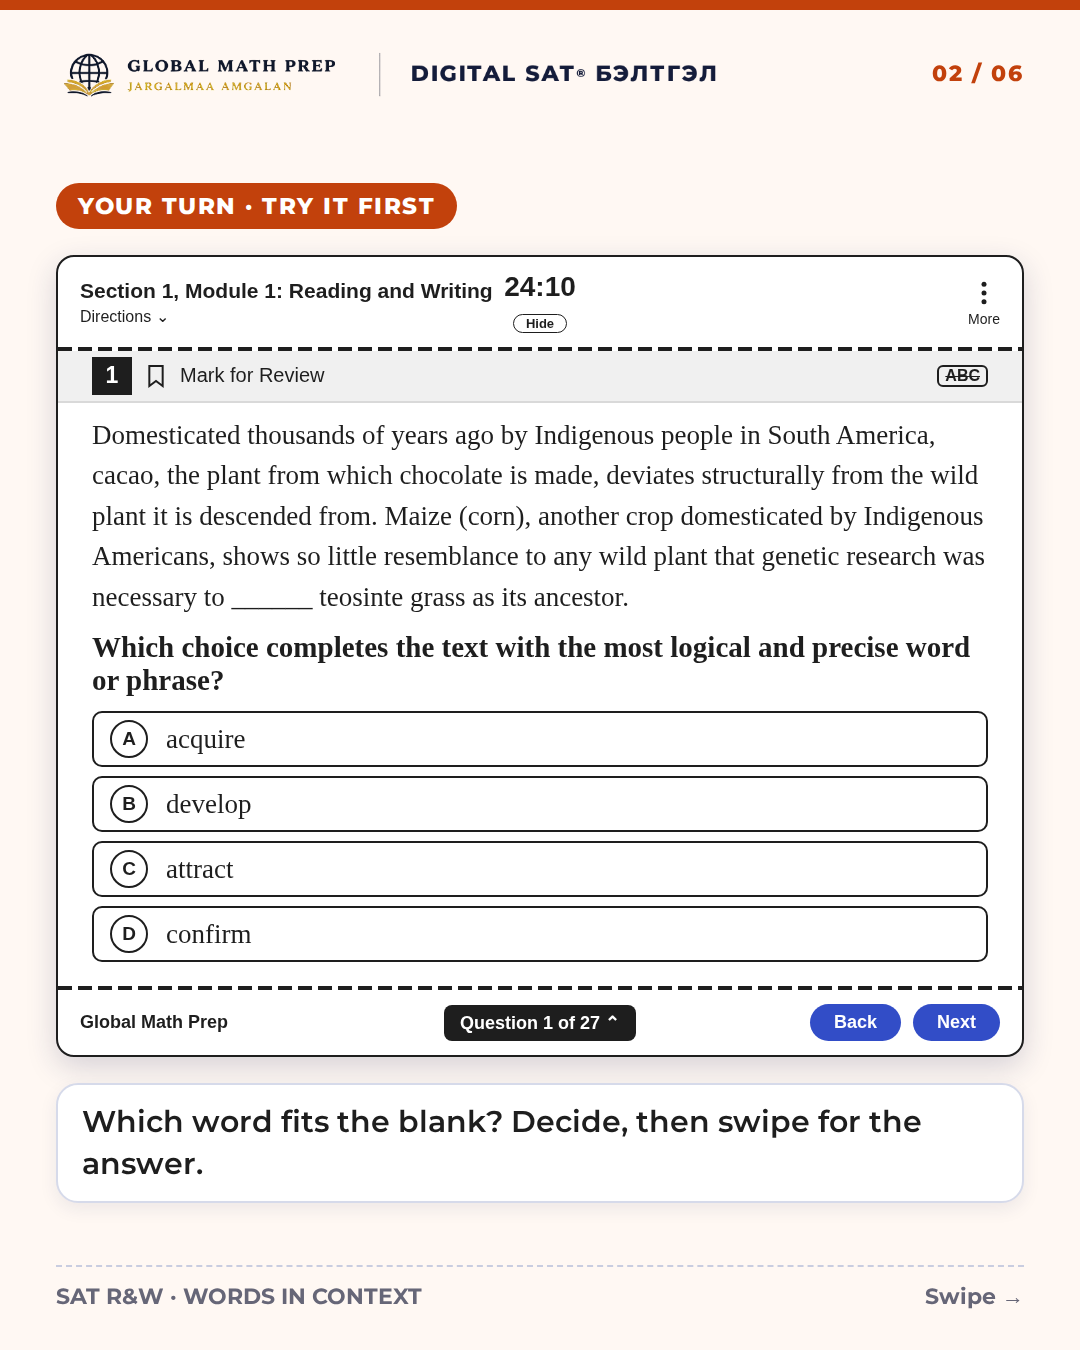
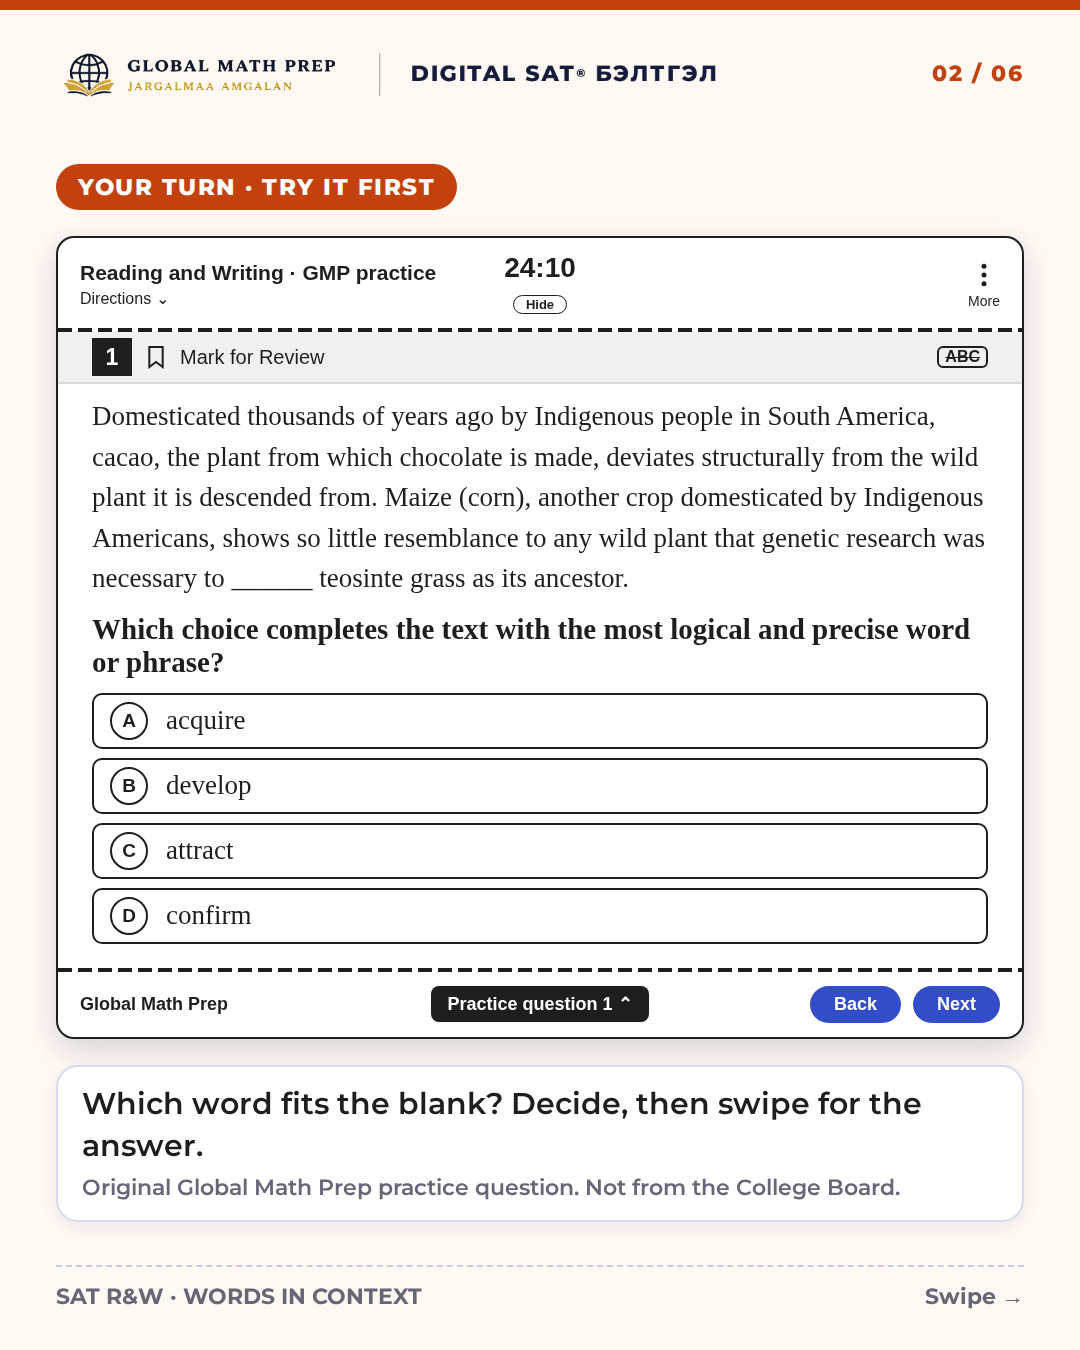
Cacao-Maize EN: apply audit fixes (PNG; MP4 to be re-rendered)
Claude-Session: https://claude.ai/code/session_01FLPzALAJUoveurDTsvCi1K

Changed region(s): [[0.0306, 0.1244, 0.9472, 0.9022]]

diff --git a/tools/v2/gen36.py b/tools/v2/gen36.py
@@ -18,10 +18,10 @@ EXTRA = """
 .vc.tp{border:3px solid #c62828}
 .vc .top2{display:flex;align-items:baseline;gap:14px;flex-wrap:wrap}
 .vc .wd{font-family:S,serif;font-size:40px;font-weight:700;color:#c62828}
-.vc .pr{font-size:24px;font-weight:700;color:#667}
+.vc .pr{font-size:27px;font-weight:700;color:#667}
 .vc .tg{font-size:20px;font-weight:800;letter-spacing:1px;background:#c62828;color:#fff;border-radius:20px;padding:3px 14px}
 .vc .why{font-size:31px;font-weight:600;color:#223;line-height:1.35;margin-top:4px}
-.vc .ex{font-family:S,serif;font-style:italic;font-size:29px;color:#556;margin-top:4px}
+.vc .ex{font-family:S,serif;font-style:italic;font-size:30px;color:#556;margin-top:4px}
 .trio{display:flex;gap:12px}
 .trio span{flex:1;text-align:center;background:#fff;border:2.5px solid @AC@;border-radius:18px;padding:12px 6px;font-family:S,serif;font-size:34px;font-weight:700;color:@AC@}
 .trio span.on{background:@AC@;color:#fff}
@@ -44,12 +44,12 @@ PASS = f'<span style="font-size:27px;line-height:1.5;display:block">{S1} {S2}</s
 
 # 1 cover
 cov = f"""<div style="display:flex;justify-content:space-between;align-items:center"><div class="pill">DOMAIN · CRAFT AND STRUCTURE</div>{E('1f331',110,'fl')}</div>
-<div style="align-self:flex-start;display:flex;align-items:center;gap:20px;background:#1e1e1e;color:#fff;border-radius:26px;padding:14px 34px 14px 30px"><span style="font-family:IN,M,sans-serif;font-weight:900;font-size:110px;letter-spacing:-3px;line-height:1">SAT<sup style="font-size:36px;vertical-align:top;position:relative;top:14px">&reg;</sup></span><span style="font-size:27px;font-weight:800;line-height:1.3;border-left:3px solid {AC};padding-left:20px">Reading &amp; Writing<br>practice question</span></div>
+<div style="font-family:IN,M,sans-serif;font-weight:900;font-size:58px;letter-spacing:-1px;color:#1e1e1e"><span style="color:{AC}">SAT</span>&reg; Reading &amp; Writing</div>
 <div class="h" style="font-size:96px"><span class="blue">Corn</span><br>looks nothing like<br>its ancestor</div>
 <div class="lead">So how did scientists find out who its ancestor was? One SAT word answers it.</div><div class="chips"><span>SKILL · Words in Context</span><span>4 choices</span><span>3 clues</span></div><div class="swipe">Swipe →</div>"""
 
-p2 = f"""<div class="pill">YOUR TURN · TRY IT FIRST</div>{frame(1, PASS, CH, prompt=PR)}
-<div class="card big" style="padding:16px 24px">Which word fits the blank? Decide, then swipe for the answer.</div>"""
+p2 = f"""<div class="pill">YOUR TURN · TRY IT FIRST</div>{frame(1, PASS, CH, prompt=PR).replace("Section 1, Module 1: Reading and Writing","Reading and Writing · GMP practice").replace("Question 1 of 27","Practice question 1")}
+<div class="card big" style="padding:16px 24px">Which word fits the blank? Decide, then swipe for the answer.<div style="font-size:22px;font-weight:600;color:#667;margin-top:6px">Original Global Math Prep practice question. Not from the College Board.</div></div>"""
 
 S2h = ('Maize (corn), another crop domesticated by Indigenous Americans, shows <span class="hk">so little resemblance</span> to any wild plant that '
        '<span class="hk">genetic research was necessary</span> to ______ <span class="hk">teosinte grass as its ancestor</span>.')
@@ -61,15 +61,15 @@ p3 = f"""<div class="pill">KEY CLUES</div>
 <div class="h" style="font-size:72px"><span class="blue">3 clues</span> point<br>to the answer</div>
 <div class="card" style="padding:16px 24px"><div class="sen" style="font-size:31px;line-height:1.55">{S2h}</div></div>
 <div class="card" style="padding:6px 24px">{rows}</div>
-<div class="rule" style="font-size:27px">Looks cannot tell us, so research was needed. Research gave proof.</div>"""
+<div class="rule" style="font-size:27px">Looks alone cannot tell us, so research was needed. Research gave the proof.</div>"""
 
 p4 = f"""<div class="pill">ANSWER</div>
 <div class="okrow"><div class="ok">D) confirm</div><div class="h" style="font-size:56px">= prove</div></div>
 <div class="lead" style="font-size:32px">Say it: <b>kun-FURM</b>. It means to show that something is true.</div>
-<div class="card" style="padding:14px 24px"><div class="lab">ASK: “WHAT DOES RESEARCH DO?”</div>
+<div class="card" style="padding:14px 24px"><div class="lab" style="font-size:26px">ASK: “WHAT DOES RESEARCH DO?”</div>
 <div class="trio"><span>finds</span><span>proves</span><span class="on">confirms</span></div></div>
 <div class="card" style="padding:14px 24px"><div class="lab">TEST IT</div><div class="sen" style="font-size:36px">…genetic research was necessary to <b>confirm</b> teosinte grass as its ancestor.</div></div>
-<div class="rule" style="font-size:26px">Pattern: <u>to ___ X as Y</u> → confirm, identify, establish<br>so … that research was necessary → proof was needed</div>"""
+<div class="rule" style="font-size:26px">PATTERN · <u>to ___ X as Y</u> → confirm, identify, establish<br>CLUE · so … that research was necessary → proof was needed</div>"""
 
 def vc(w, pr, mean, why, ex, trap=False):
     tag = '<span class="tg">MOST TEMPTING</span>' if trap else ''
@@ -78,7 +78,8 @@ p5 = f"""<div class="pill">WHY THE OTHERS ARE WRONG</div>
 <div class="h" style="font-size:66px">Why is <span class="blue">develop</span><br>the trap?</div>
 {vc('B) develop', 'di-VEL-up', 'create, build', 'Research cannot create an ancestor. Teosinte already existed. It sounds scientific, so many students pick it.', 'Scientists developed a vaccine.', True)}
 {vc('A) acquire', 'uh-KWY-er', 'get, obtain', 'Research does not get grass.', 'The museum acquired a painting.')}
-{vc('C) attract', 'uh-TRAKT', 'pull toward', 'Research does not pull grass toward it.', 'Flowers attract bees.')}"""
+{vc('C) attract', 'uh-TRAKT', 'pull toward', 'Research does not pull grass toward it.', 'Flowers attract bees.')}
+<div style="font-size:28px;font-weight:800;color:#445;text-align:center">D) confirm is explained on the previous slide.</div>"""
 
 p6 = f"""<div class="pill">THE END</div>
 <div style="text-align:center"><div class="in" style="font-size:58px">Want more practice like this?</div>
@@ -87,7 +88,7 @@ p6 = f"""<div class="pill">THE END</div>
 <div style="display:flex;gap:20px;align-items:stretch">
  <div class="card" style="text-align:center;padding:14px"><img src="{gen29.QR}" style="width:220px;height:220px;display:block"><div style="font-weight:800;font-size:22px;margin-top:4px">Scan to sign up</div></div>
  <div class="card" style="flex:1;display:flex;flex-direction:column;justify-content:center;gap:12px;font-size:27px;font-weight:700">
-  <div><span class="blue">English</span> · Tue · Thu · Sat · 20:00–21:20</div><div><span class="blue">Math</span> · Mon · Wed · Fri · 20:00–21:20</div><div style="color:#556">Ulaanbaatar time · WhatsApp +1 428 880 1826</div></div></div>"""
+  <div><span class="blue">English</span> · Tue · Thu · Sat · 20:00–21:20</div><div><span class="blue">Math</span> · Mon · Wed · Fri · 20:00–21:20</div><div style="color:#556">Ulaanbaatar, Mongolia time</div><div style="color:#556;white-space:nowrap">WhatsApp +1 428 880 1826</div></div></div>"""
 
 POST = dict(key='Cacao-Maize-EN', AC=AC, SOFT=SOFT, TINT=TINT, nxt='New',
             pages=[cov, p2, p3, p4, p5, p6])
